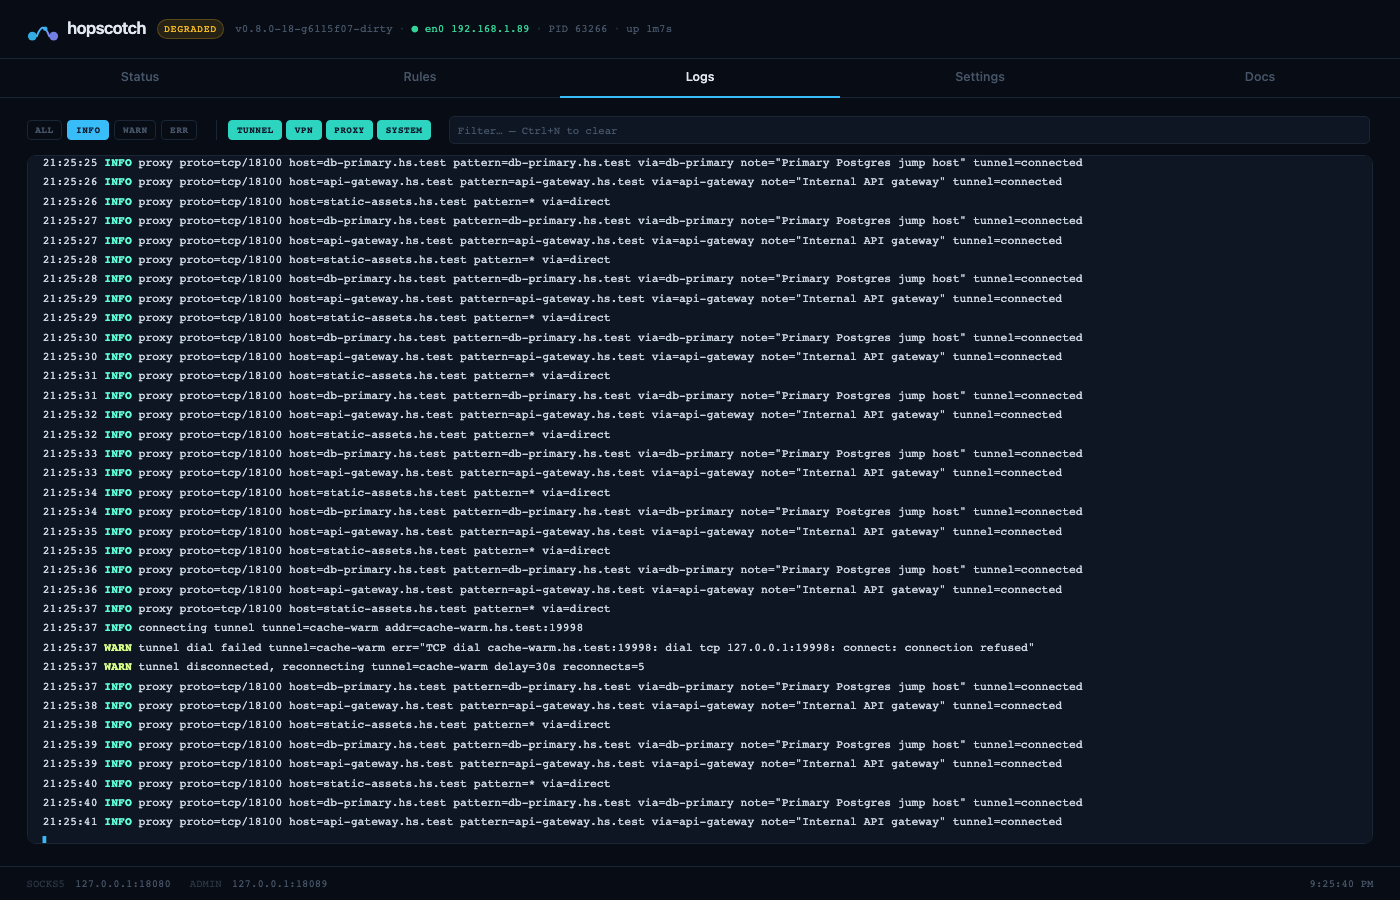
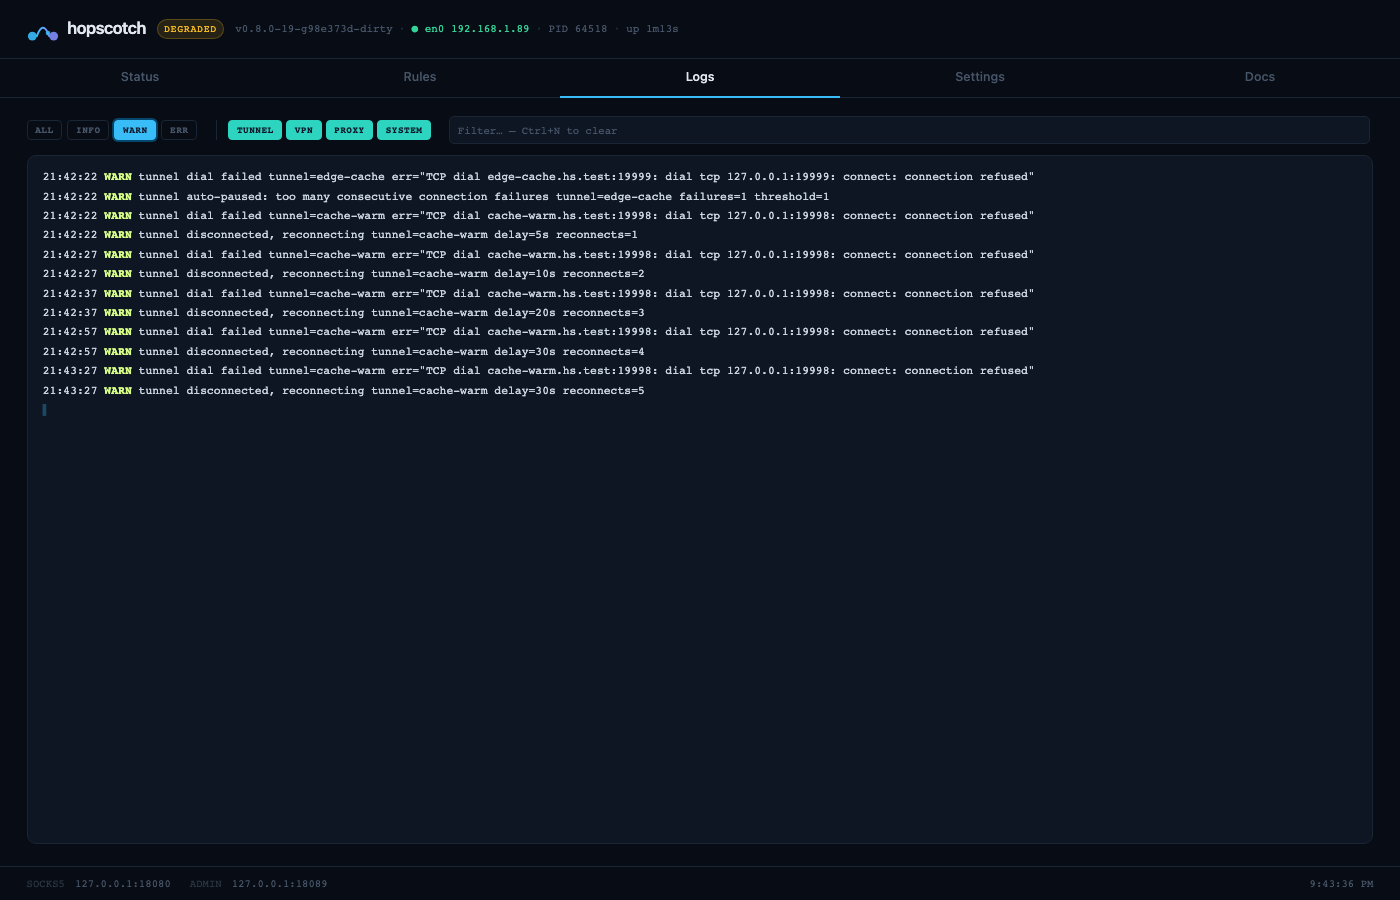
fix: web UI rules tester always reported "direct" regardless of the actual match
routesTesterUpdate read routes[matchIdx].tunnel / .via for the "matched
→ X" text, but the route object's field is named target — both reads
were undefined, so it silently fell back to the hardcoded 'direct'
string no matter which rule actually matched. The TUI's equivalent
already read the right field, so this only showed up as a TUI/web-UI
mismatch once someone tested a non-direct-targeting pattern in both.
Found while adding a live-tester screenshot to the docs demo pipeline.

Changed region(s): [[0.0307, 0.1244, 0.7679, 0.9333]]

diff --git a/scripts/demo/capture_web.js b/scripts/demo/capture_web.js
@@ -1,7 +1,7 @@
 // capture_web.js — web UI screenshots for docs/, driven by scripts/demo/screenshots.sh
 // against the synthetic fixture it builds. Not meant to run standalone.
 //
-// Usage: node capture_web.js <admin-port> <docs-dir>
+// Usage: node capture_web.js <admin-port> <docs-dir> <auth-admin-port>
 const { chromium } = require('playwright');
 
 async function waitForReady(page) {
@@ -12,7 +12,7 @@ async function waitForReady(page) {
 }
 
 async function main() {
-  const [, , adminPort, docsDir] = process.argv;
+  const [, , adminPort, docsDir, authAdminPort] = process.argv;
   const baseURL = `http://127.0.0.1:${adminPort}/`;
 
   const browser = await chromium.launch();
@@ -27,6 +27,8 @@ async function main() {
 
   await page.evaluate(() => window.switchTab('patterns'));
   await page.waitForTimeout(500);
+  await page.fill('#routes-tester-input', '10.42.0.5'); // exercise the CIDR-block rule live
+  await page.waitForTimeout(300);
   await page.screenshot({ path: `${docsDir}/ui-rules.png` });
 
   await page.evaluate(() => window.switchTab('logs'));
@@ -34,12 +36,21 @@ async function main() {
     () => document.querySelectorAll('.log-line').length > 0,
     { timeout: 10000 }
   ).catch(() => {}); // best-effort — screenshot either way
+  await page.click('.log-chip[data-level="WARN"]'); // filter to WARN+ so cache-warm's retries stand out
   await page.waitForTimeout(500);
   await page.screenshot({ path: `${docsDir}/ui-logs.png` });
 
   await page.evaluate(() => window.switchTab('settings'));
   await page.waitForTimeout(300);
   await page.screenshot({ path: `${docsDir}/ui-settings.png` });
+
+  if (authAdminPort) {
+    const loginPage = await browser.newPage({ viewport: { width: 1400, height: 900 } });
+    await loginPage.goto(`http://127.0.0.1:${authAdminPort}/login`);
+    await loginPage.waitForSelector('form[action="/api/login"]');
+    await loginPage.screenshot({ path: `${docsDir}/ui-login.png` });
+    await loginPage.close();
+  }
 
   await browser.close();
 }

diff --git a/internal/admin/ui/app.js b/internal/admin/ui/app.js
@@ -1350,7 +1350,7 @@ window.routesTesterUpdate = function(input) {
   let matchIdx = findMatchIdx(input);
   if (result) {
     if (matchIdx !== undefined) {
-      const via = routes[matchIdx].tunnel || routes[matchIdx].via || 'direct';
+      const via = routes[matchIdx].target || 'direct';
       result.innerHTML = `<span class="routes-tester-match">✓ rule ${matchIdx + 1} matched &rarr; <strong>${via}</strong></span>`;
     } else {
       result.innerHTML = `<span class="routes-tester-nomatch">no rule matched &rarr; direct (fallback)</span>`;
